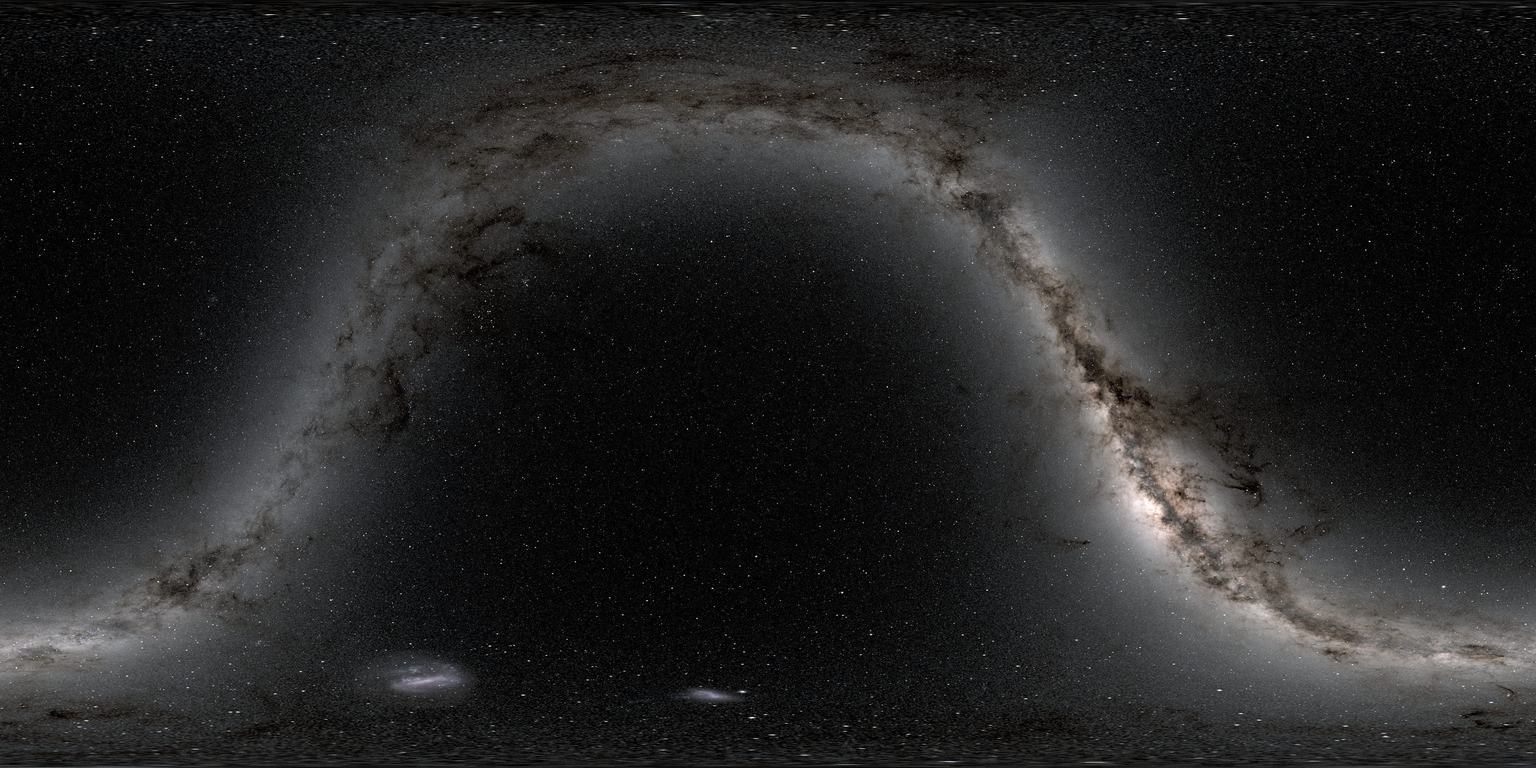
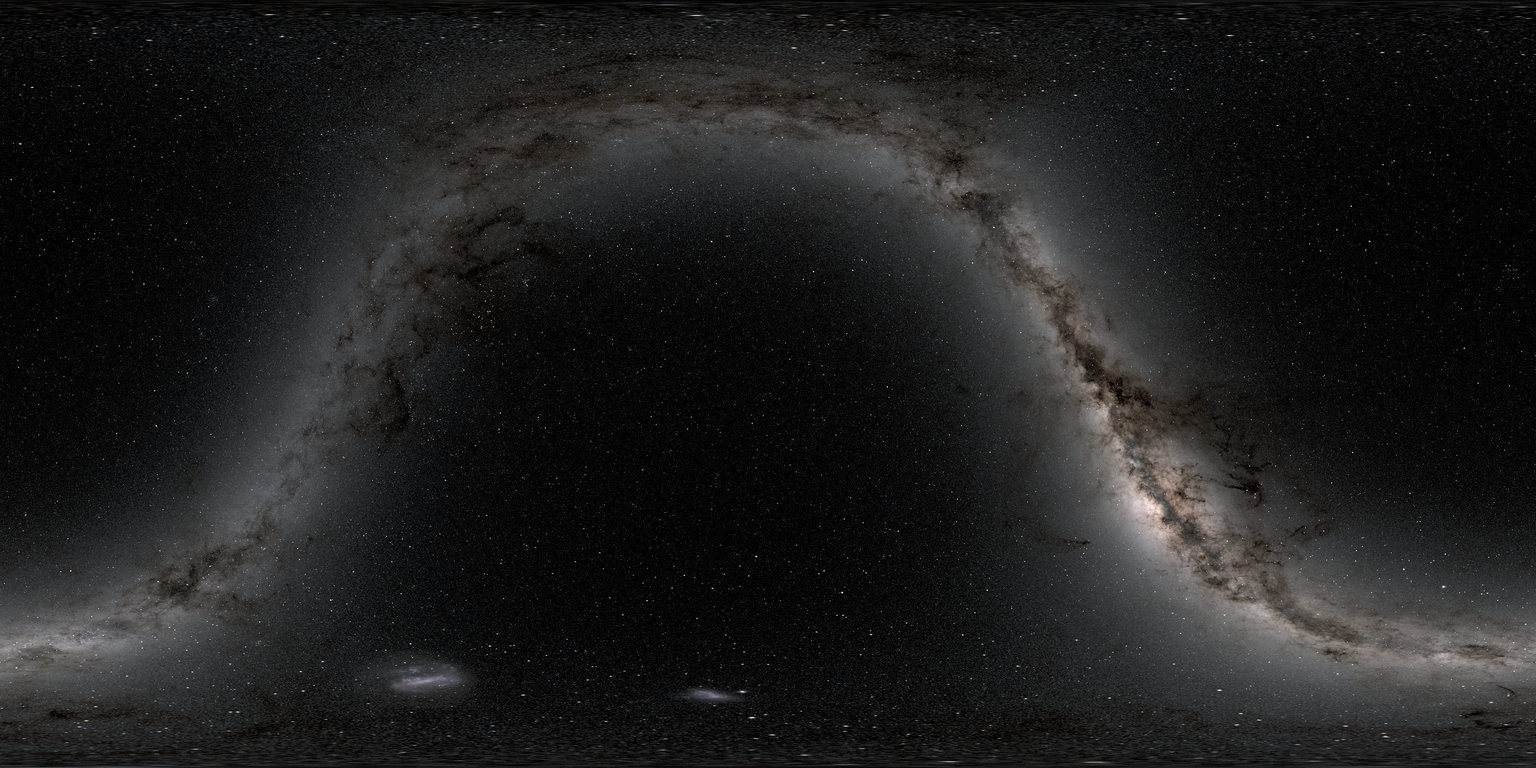
Refine wormhole sky exposure and grain

diff --git a/src/lib/wormhole.ts b/src/lib/wormhole.ts
@@ -107,7 +107,7 @@ export function flight(p: number) {
 // stars behind it, Saturn's night side; everything else in a picture is light added to the sky.
 export type Patch = { lon: number; lat: number; width: number; aspect: number; side: 1 | -1; gain: number; disk?: [number, number, number] };
 export const PATCHES = {
-  saturn: { lon: 0.36, lat: -0.06, width: 0.7, aspect: 1920 / 746, side: -1, gain: 1.15, disk: [0.5, 0.53, 0.079] },
+  saturn: { lon: 0.36, lat: -0.06, width: 0.7, aspect: 1920 / 746, side: -1, gain: 2, disk: [0.5, 0.53, 0.079] },
   galaxy: { lon: 0.18, lat: 0.14, width: 1.1, aspect: 1920 / 1673, side: 1, gain: 1.3 },
   deep: { lon: -0.3, lat: -0.1, width: 1.8, aspect: 1920 / 1753, side: 1, gain: 0.7 },
 } satisfies Record<string, Patch>;

diff --git a/src/motion/passage.ts b/src/motion/passage.ts
@@ -88,7 +88,7 @@ void main() {
   vec2 q = vUv - 0.5;
   sky *= 1.0 - 0.55 * dot(q, q) * 1.6;
   float g = fract(sin(dot(gl_FragCoord.xy + uTime * 61.0, vec2(12.9898, 78.233))) * 43758.5453);
-  sky += (g - 0.5) * 0.035;
+  sky += (g - 0.5) * 0.02;
   color = vec4(sky, 1.0);
 }`;
 
